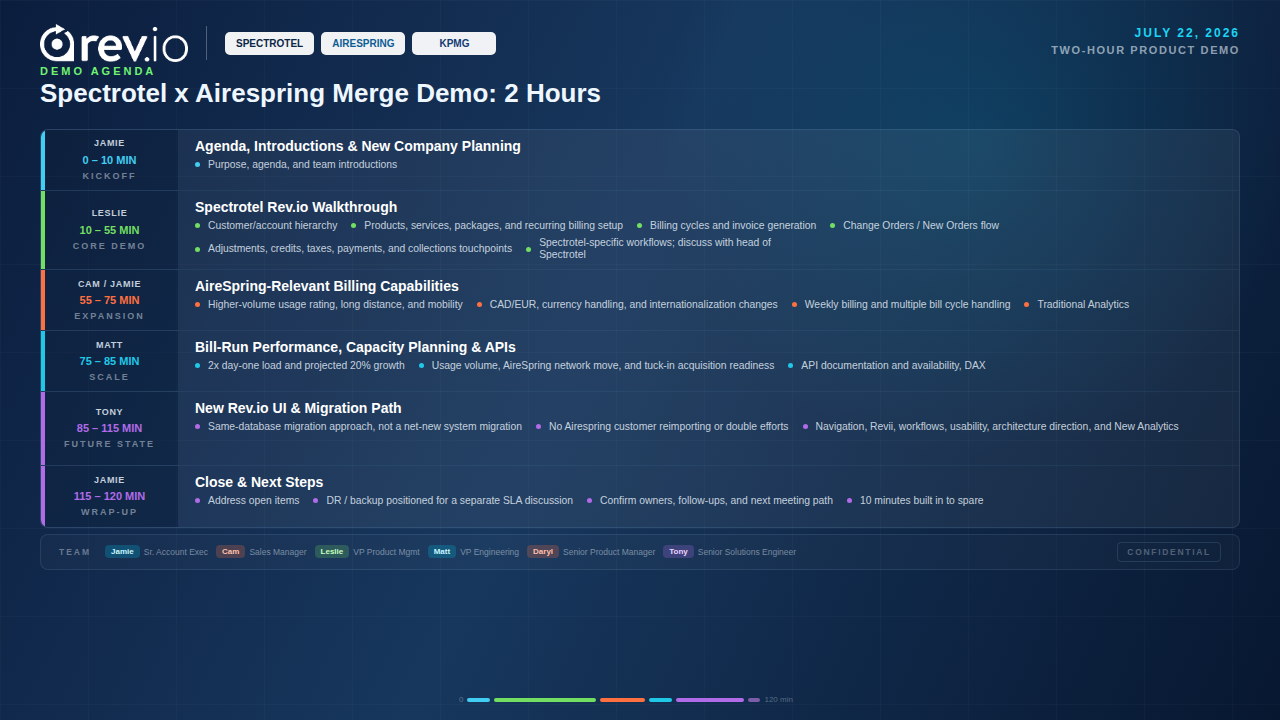
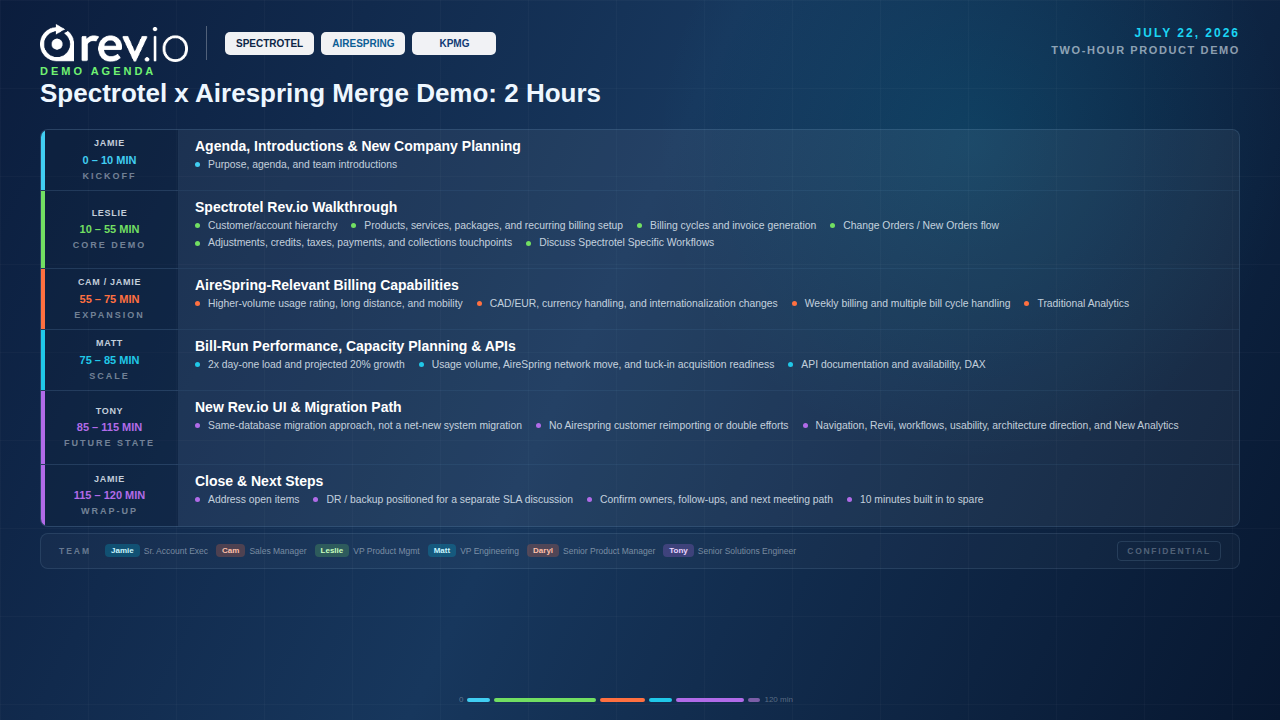
Tighten Spectrotel workflow agenda bullet

diff --git a/spectrotel-airespring-merger-demo-agenda.html b/spectrotel-airespring-merger-demo-agenda.html
@@ -362,7 +362,7 @@
             <div class="bullet"><span class="dot"></span><span>Billing cycles and invoice generation</span></div>
             <div class="bullet"><span class="dot"></span><span>Change Orders / New Orders flow</span></div>
             <div class="bullet"><span class="dot"></span><span>Adjustments, credits, taxes, payments, and collections touchpoints</span></div>
-            <div class="bullet medium-text"><span class="dot"></span><span>Spectrotel-specific workflows; discuss with head of Spectrotel</span></div>
+            <div class="bullet medium-text"><span class="dot"></span><span>Discuss Spectrotel Specific Workflows</span></div>
           </div>
         </div>
       </div>